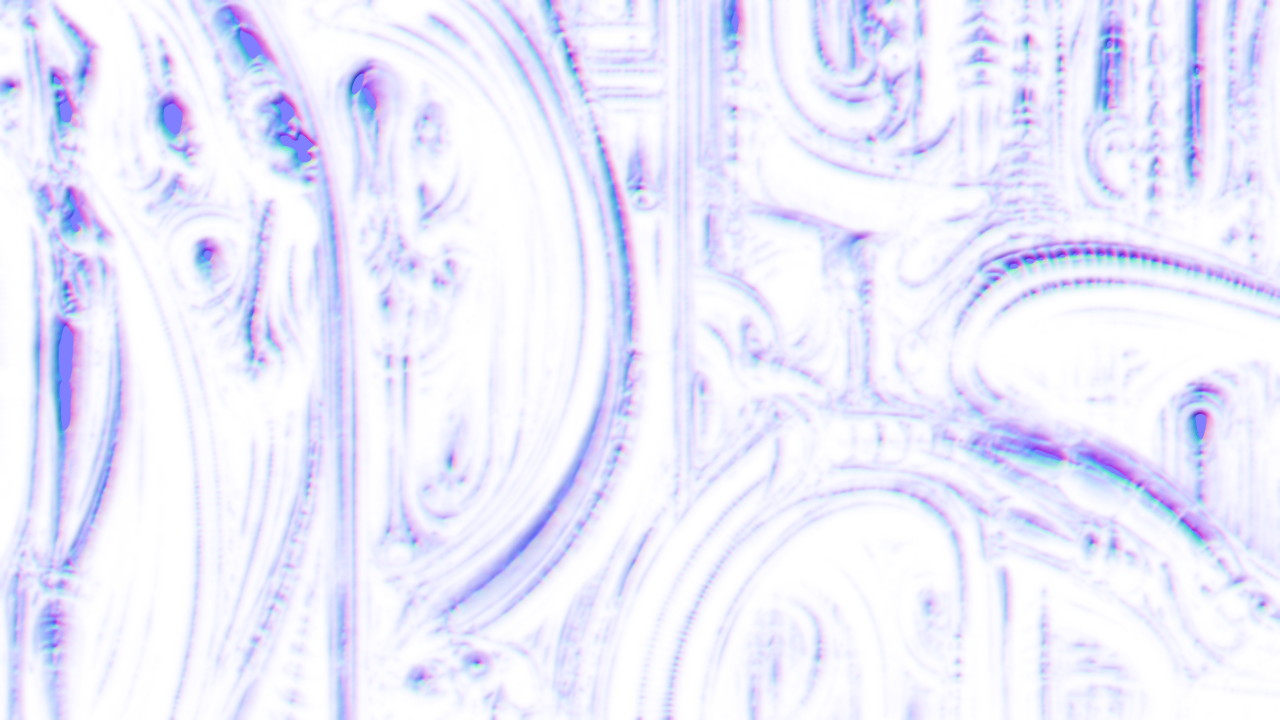
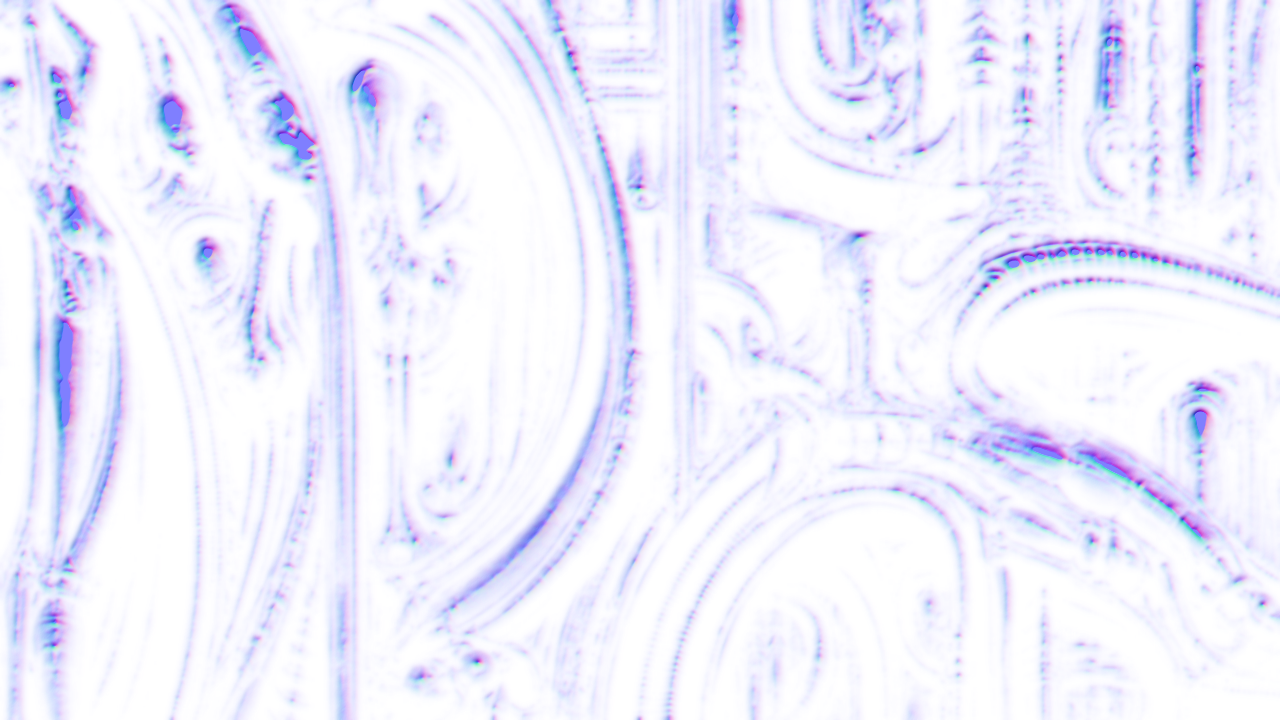
Regenerate background normal maps from the current art
main's commit 06d159e re-baked all seven backgrounds (mean luma roughly
halved, e.g. Harvest 26.8 -> 13.4). The bump maps are derived from the art's
luminance, so the committed ones no longer matched the shipped JPEGs.

Regenerated with tools/make_bg_normal_maps.py. Relief strength is
auto-normalised per image (TARGET_SLOPE on p98 |grad|), so the slope
distribution -- and therefore the relief-mask thresholds in the shaders --
is unchanged: mean |n.xy| 0.16-0.20, p98 0.71, median tilt 9-12 degrees.

Re-measured against the new art: median gain 1.10x (ambient only), 9-15% of
pixels above 1.5x (the ridges), 0.0-0.4% clipping, and 8-17% of pixels move
by p99 49-93 luma between samples 25 s apart.

diff --git a/STATUS.md b/STATUS.md
@@ -10,10 +10,10 @@
 ### Moving lights over background bump maps — 20 October 2026
 
 - Replaces the PR #58 Harvest "sweeping sun" prototype. Its normal texture was nearly flat (mean z 0.997), its height mask allowed a constant +22% on only 18% of the frame (the sweep cancelled itself out by construction: constant front elevation minus the l.z baseline), and its bake darkened Harvest — none of it read as a moving light.
-- `tools/make_bg_normal_maps.py` derives real bump maps (`assets/<name>_normal.png`, RGB tangent-space normals with height in alpha) from each non-Deus background's art. Relief is auto-normalized to a target slope so every background gets equally strong bumps. Deus is excluded on purpose and keeps its own look.
-- Both background shaders (`assets/depth_fog.fs`, `assets/depth_fog_web.fs`) light the bump with an ambient lift — every lit background is brighter than its art, so there is no night side — plus three wide soft lights drifting on independent slow paths. The diffuse term uses only the *tilted* part of the normal (`n.x*l.x + n.y*l.y`, the flat viewer-facing component projected out) and a relief mask (`smoothstep(0.12, 0.45, |n.xy|)`) keeps near-flat art at ambient, so the pools land on the raised ridges instead of washing the whole frame. An earlier version of this block used the full `dot(n, l)`: because a flat normal returns `l.z` (~0.5-1.0) under a low light, that alone multiplied nearly the whole frame by ~2.0-2.9 and the bump map moved the result by only ~5 luma on average — the light showed up on flat art, not on the bumps. Light height is now 0.35 (grazing) so ridges read stronger. `--check` enforces desktop/web parity of the moving-light block, and the tool mirrors its constants for offline previews.
+- `tools/make_bg_normal_maps.py` derives real bump maps (`assets/<name>_normal.png`, RGB tangent-space normals with height in alpha) from each non-Deus background's art. Relief is auto-normalized to a target slope so every background gets equally strong bumps, so the maps are regenerated whenever the art is re-baked (they are currently derived from the darker backgrounds now on `main`). Deus is excluded on purpose and keeps its own look.
+- Both background shaders (`assets/depth_fog.fs`, `assets/depth_fog_web.fs`) light the bump with an ambient lift — every lit background is brighter than its art, so there is no night side — plus three wide soft lights drifting on independent slow paths. The diffuse term uses only the *tilted* part of the normal (`n.x*l.x + n.y*l.y`, the flat viewer-facing component projected out) and a relief mask (`smoothstep(0.12, 0.45, |n.xy|)`) keeps near-flat art at ambient, so the pools land on the raised ridges instead of washing the whole frame. An earlier version of this block used the full `dot(n, l)`: because a flat normal returns `l.z` (~0.5-1.0) under a low light, that alone multiplied nearly the whole frame by ~2.0-2.9 and the bump map moved the result by only ~5 luma on average — the light showed up on flat art, not on the bumps. Light height is now 0.35 (grazing) so ridges read stronger, and the ambient lift is 1.10 rather than 1.22 so flat art stays slightly brighter than the art without being washed out. `--check` enforces desktop/web parity of the moving-light block, and the tool mirrors its constants for offline previews.
 - In-match drawing enables the effect per background whenever its normal map is loaded (`src/ui_board.c`); menus keep the static dimmed path. Fog values, vignette, cards, rules, scoring, AI, campaign, storage, and replay are untouched.
-- Verification actually run: `python3 tools/make_bg_normal_maps.py --check`; `./build.sh test` (500 simulated matches); `./tests/test_table_ui.sh`; strict C99 `-Wall -Wextra -Werror` syntax check of all `src/*.c` against Raylib 5.5 headers; offline simulation of the shader math (`--preview`) — median pixel gain is now 1.10x (ambient only) instead of 2.1x, only 10-18% of pixels (the ridges) exceed 1.5x, mean background luma rises modestly instead of doubling (Harvest 26.8 -> 36), half the pixels do not move at all between samples 25 s apart, and the moving 19% shift by up to 157 luma.
+- Verification actually run: `python3 tools/make_bg_normal_maps.py --check`; `./build.sh test` (500 simulated matches); `./tests/test_table_ui.sh`; strict C99 `-Wall -Wextra -Werror` syntax check of all `src/*.c` against Raylib 5.5 headers; offline simulation of the shader math (`--preview`) — median pixel gain is now 1.10x (ambient only) instead of 2.1x, only 9-15% of pixels (the ridges) exceed 1.5x instead of 94-96%, clipping is 0.0-0.4% instead of 2-3%, mean background luma rises modestly instead of doubling (Harvest 13.4 -> 18.4 against the current art), half the pixels do not move at all between samples 25 s apart, and the moving 8-17% shift by p99 49-93 luma.
 - Still to verify: maintainer GPU retest on desktop/web — light travel and bump read on the ridges, strength under fog + bloom + CRT, and that Deus is visually unchanged. Tuning lives in the moving-light block of both shaders (keep the tool in sync).
 
 
